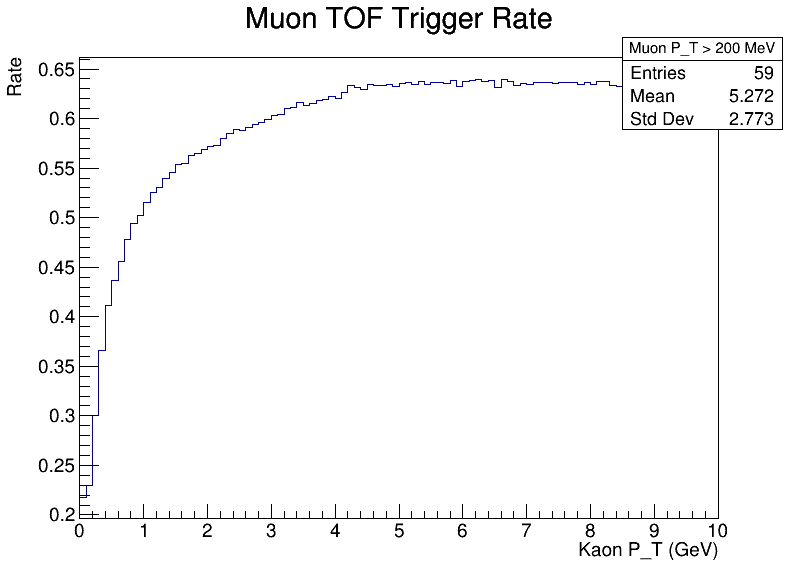
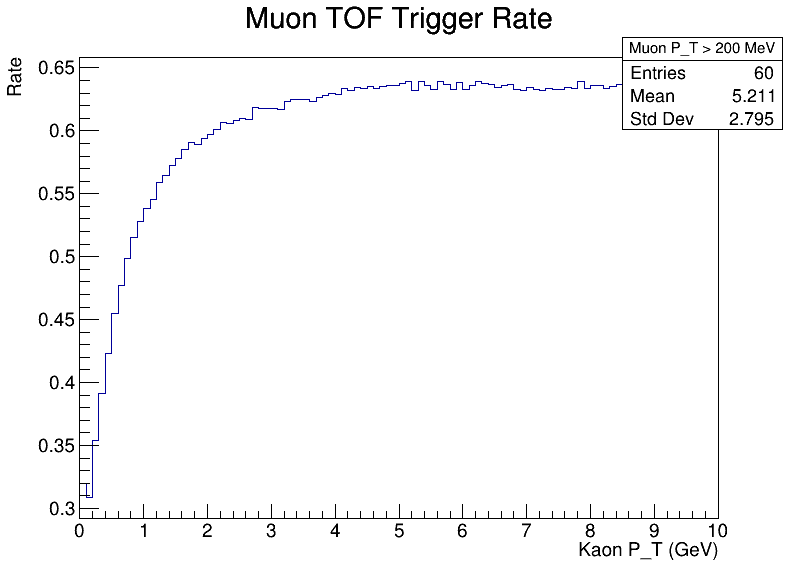
back up 6/15

diff --git a/phi_KK_toy_model/K_muon_decay.cpp b/phi_KK_toy_model/K_muon_decay.cpp
@@ -1,5 +1,4 @@
 #include "Random_routines.h"
-#include "Selection_routines.h"
 #include <RtypesCore.h>
 #include <TApplication.h>
 #include <TCanvas.h>
@@ -10,7 +9,6 @@
 #include <TRandom3.h>
 #include <TRootCanvas.h>
 #include <cmath>
-#include <TChain
 #include <fstream>
 #include <iostream>
 #include <vector>
@@ -21,7 +19,7 @@ double KAON_MASS = 0.493;
 double MUON_MASS = 0.105;
 double MUON_NUTRINO_MASS = KAON_MASS / 1000.;
 double PT_MIN = 0.0;
-double PT_MAX = 0.5;
+double PT_MAX = 10.;
 double ETA_MIN = -1.;
 double ETA_MAX = 1.;
 double PHI_MIN = 0.;
